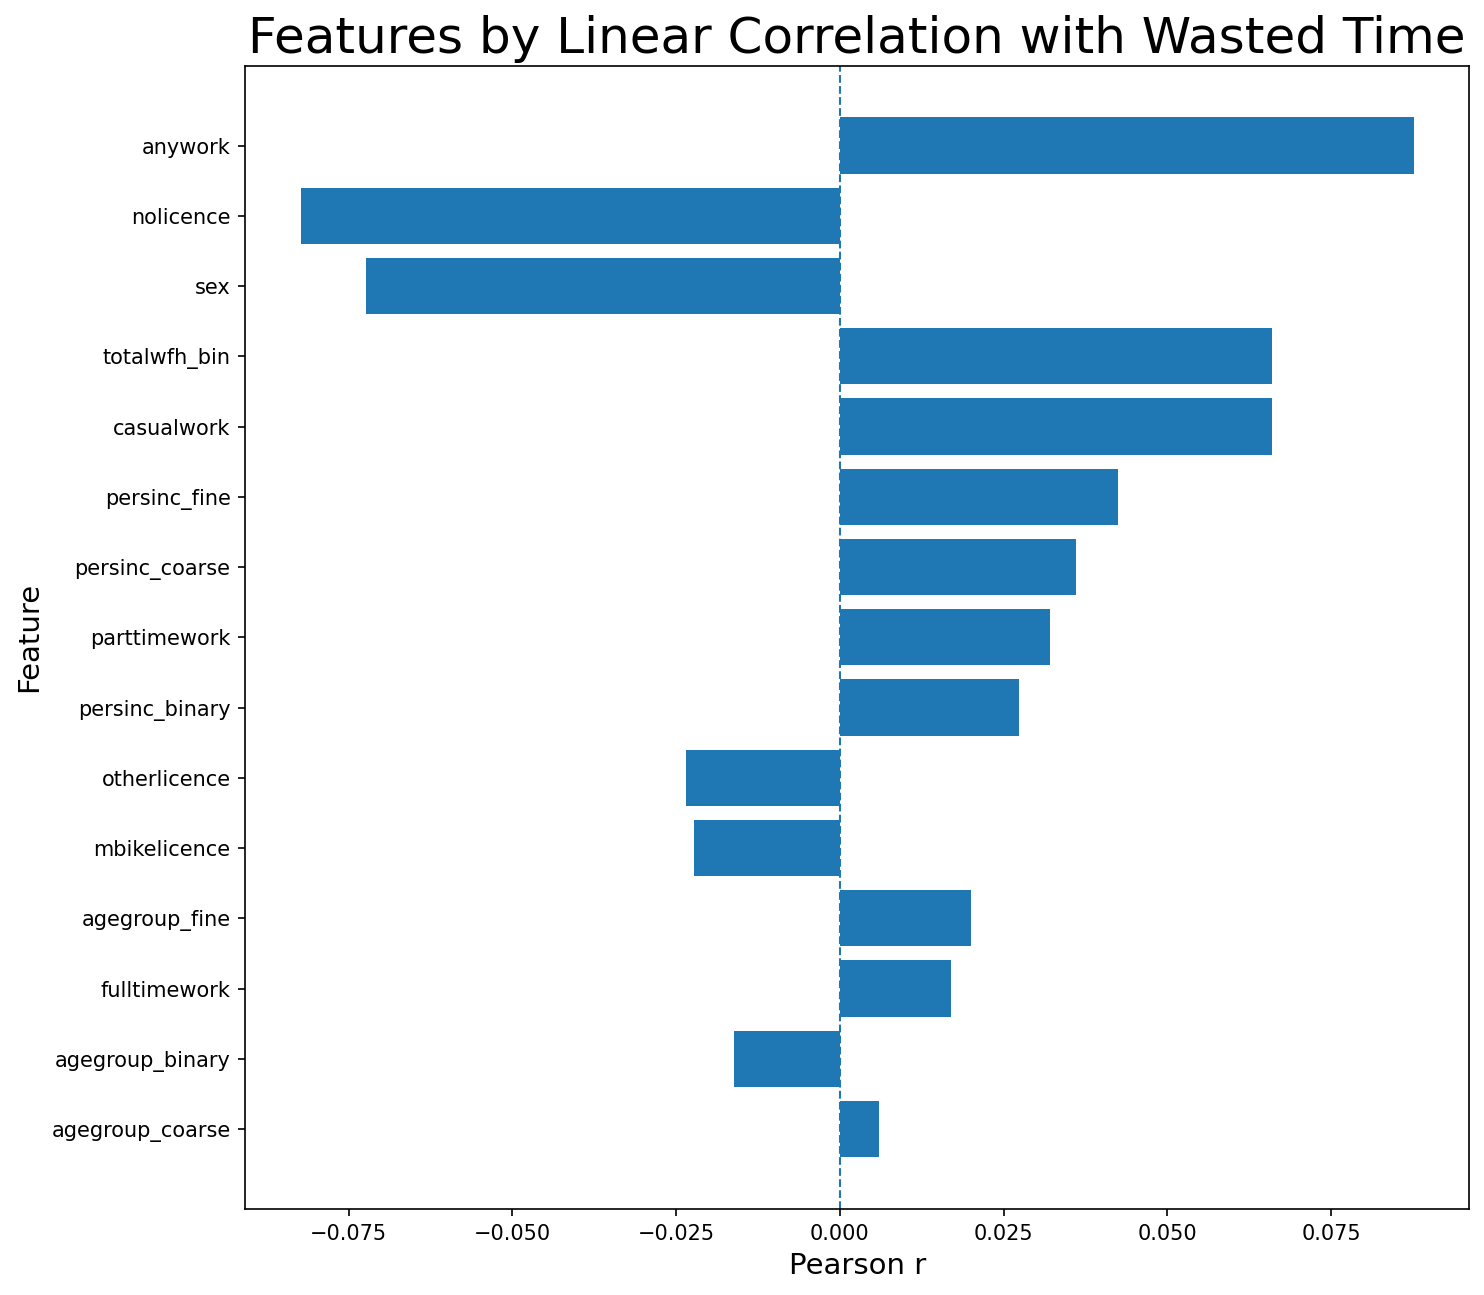
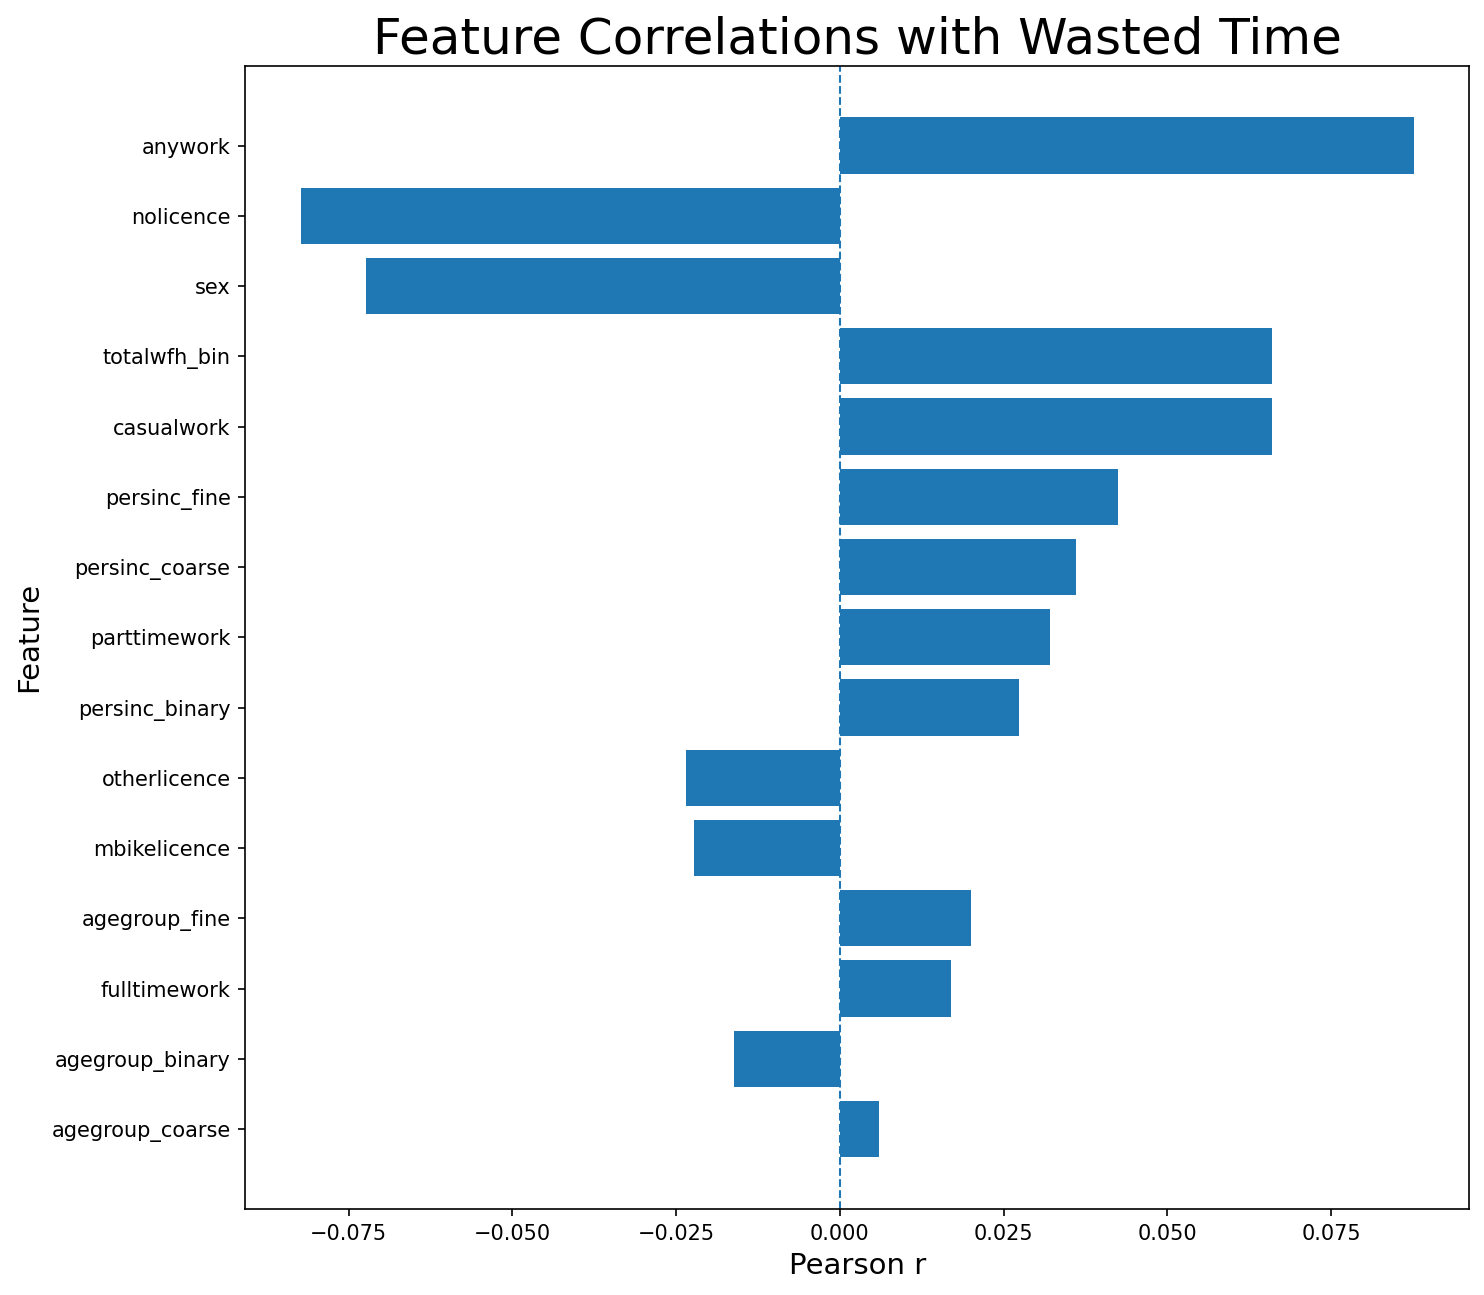
Wasted time plot title updated

Changed region(s): [[0.155, 0.0, 0.9919, 0.0618]]

diff --git a/correlation.py b/correlation.py
@@ -111,7 +111,7 @@ def corr_analysis():
     plot_bar(
         ranks,
         xlabel="Pearson r",
-        title="Features by Linear Correlation with Wasted Time",
+        title="Feature Correlations with Wasted Time",
         out_path=os.path.join(OUT_DIR, "wasted_time.png"),
     )
     travel_mode_corr(df, x, out_dir=OUT_DIR)
